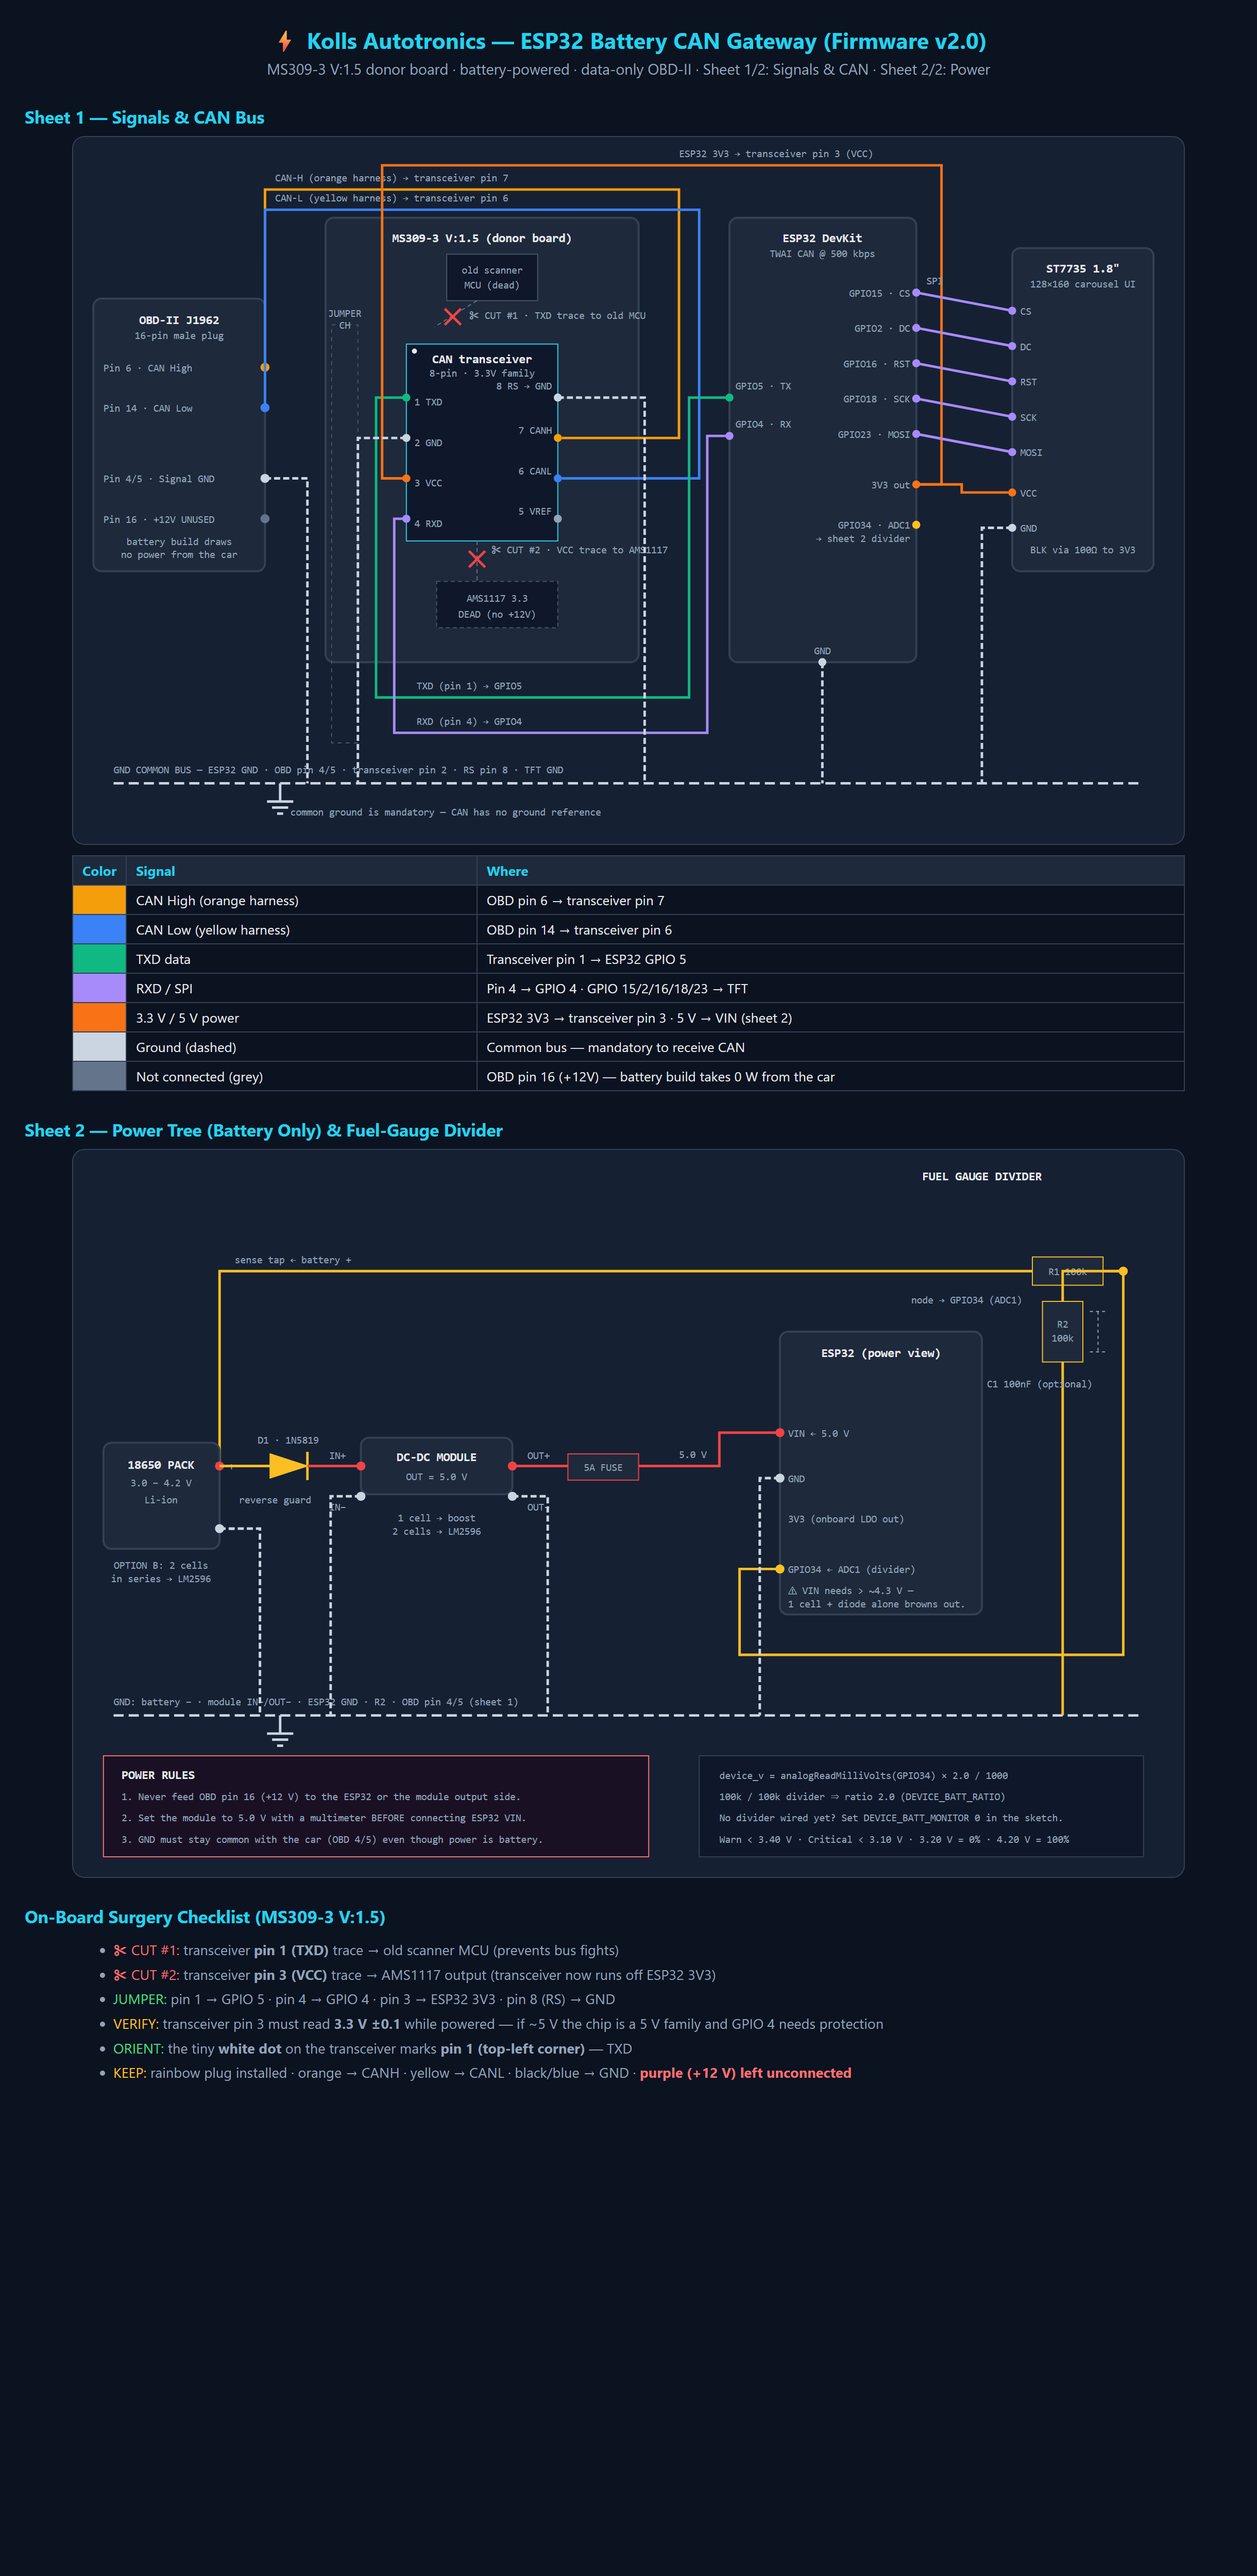
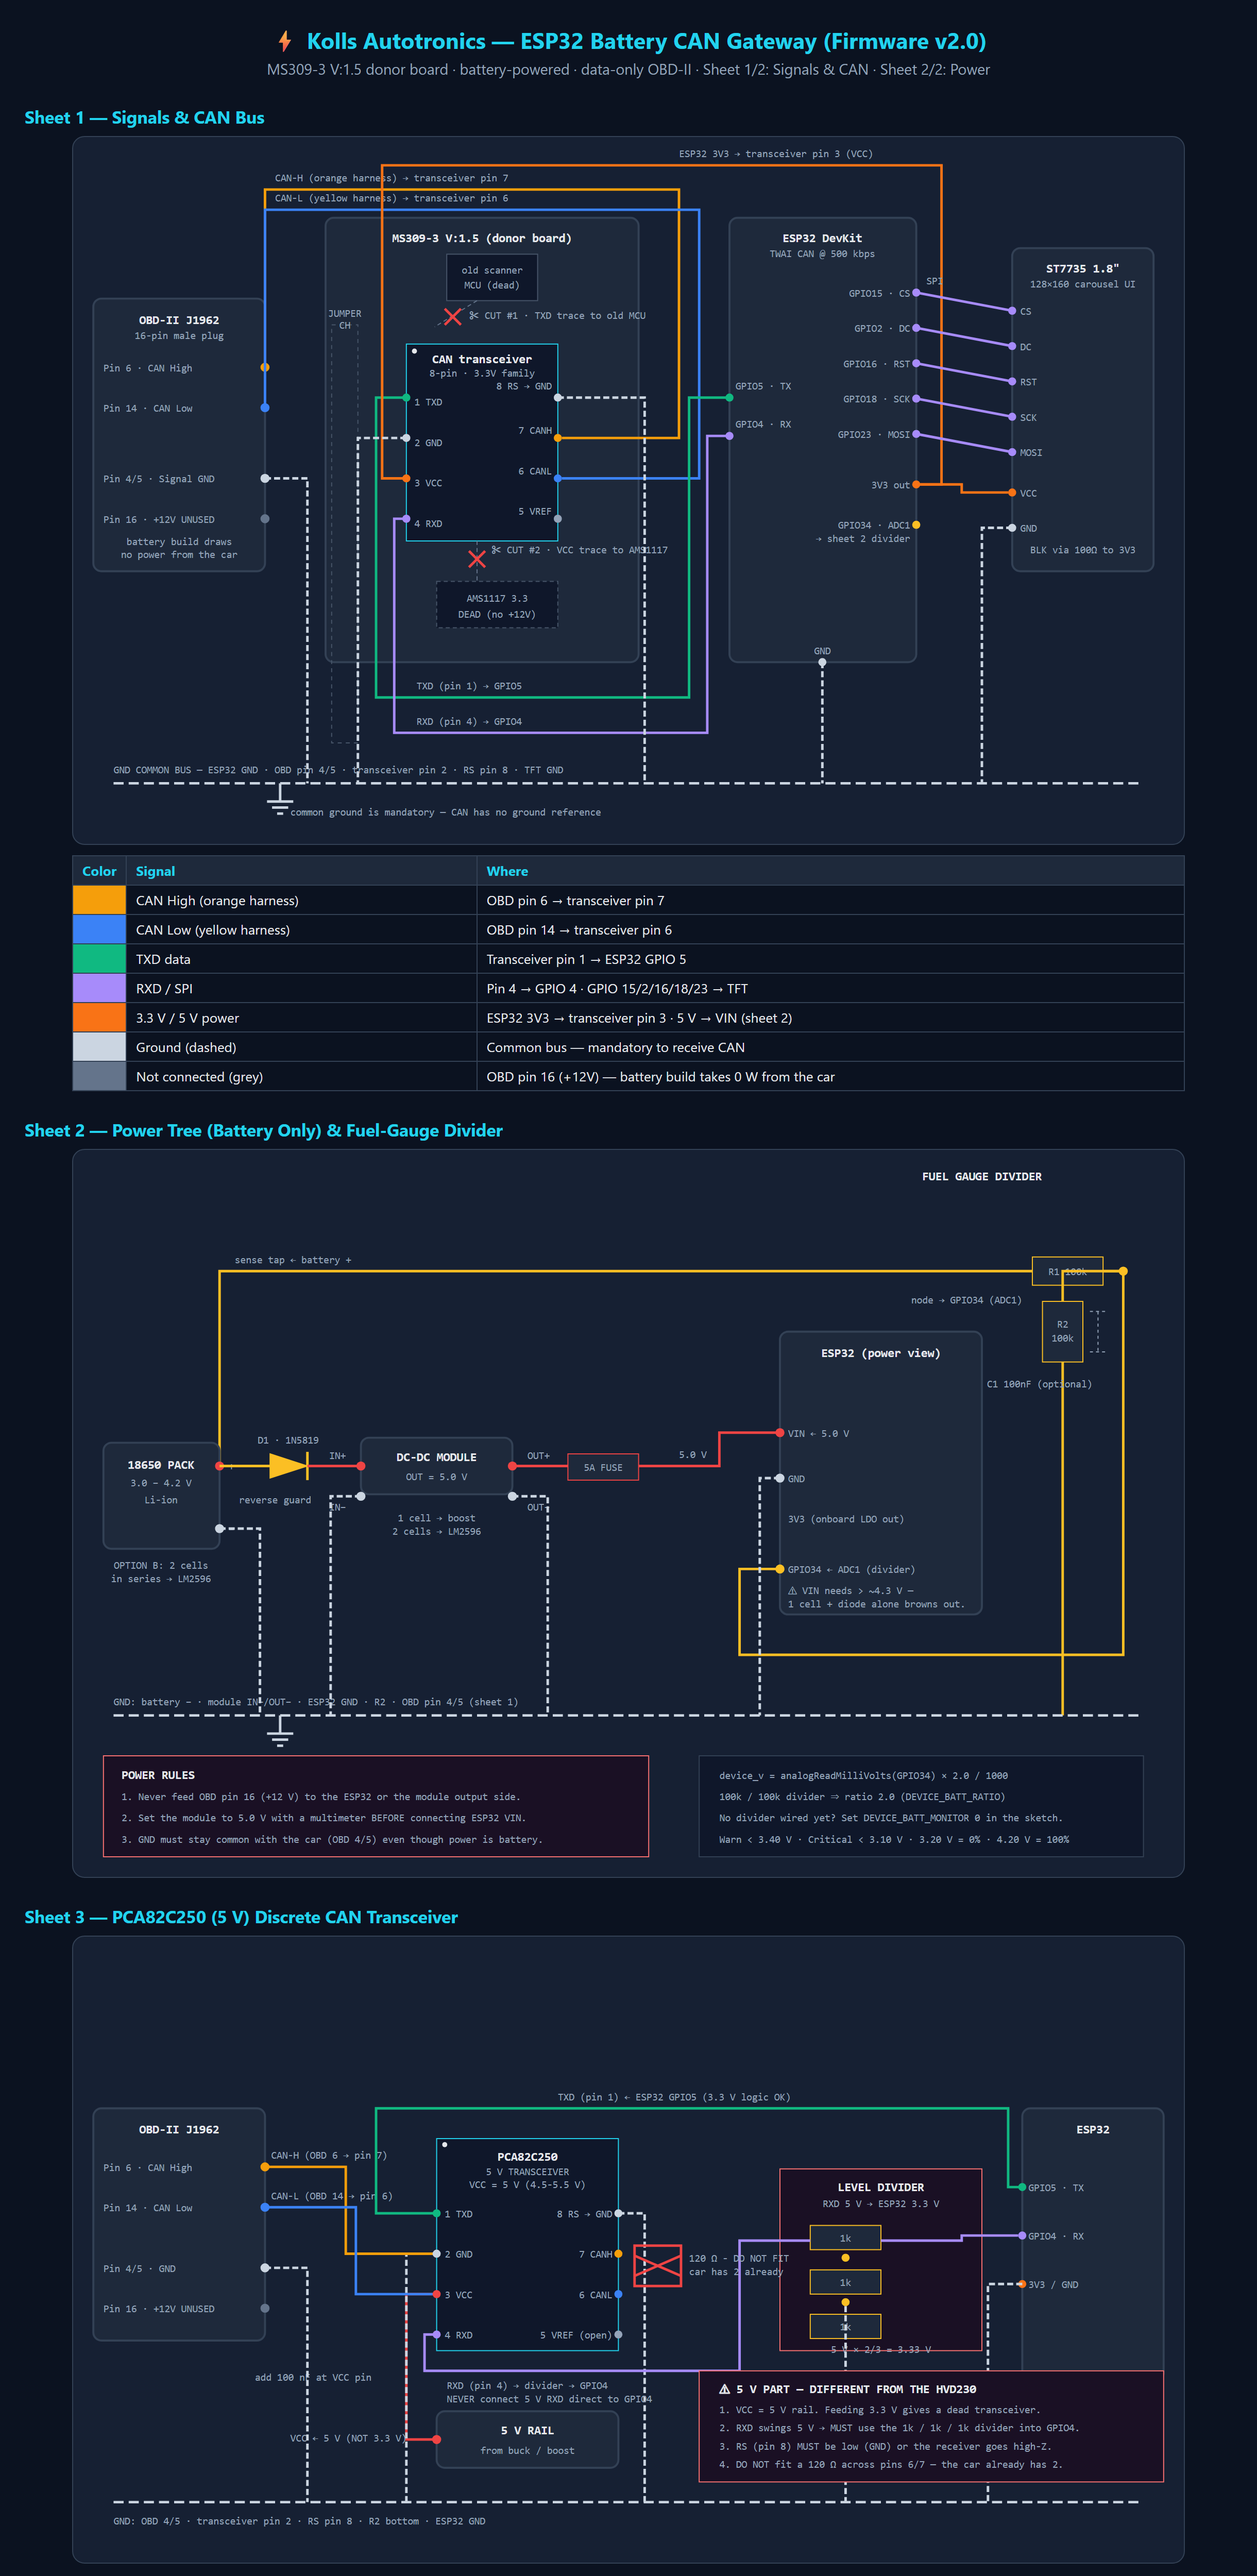
docs: add PCA82C250 (5V) schematic sheet + fix render pipeline
- new Sheet 3: PCA82C250 discrete transceiver (5V part) with 1k/1k/1k RXD level
  divider into GPIO4, RS->GND, VCC from the 5V rail, and a DO-NOT-FIT marker on
  the 120R terminator (the vehicle already provides two)
- exporter: tag-balance guard (an unclosed <text> silently truncated renders),
  removed duplicate xmlns (fatal XML error in standalone .svg)
- layout linter extended to text/dot and text/wire collisions

Changed region(s): [[0.0623, 0.7176, 0.9344, 0.9672], [0.5607, 0.78, 0.6541, 0.8112]]

diff --git a/docs/wiring-schematic-battery.html b/docs/wiring-schematic-battery.html
@@ -335,6 +335,120 @@
   <text class="pin" x="640" y="686" fill="#94a3b8">Warn &lt; 3.40 V · Critical &lt; 3.10 V · 3.20 V = 0% · 4.20 V = 100%</text>
 </svg>
 
+<h2>Sheet 3 — PCA82C250 (5 V) Discrete CAN Transceiver</h2>
+<svg viewBox="0 0 1100 620" xmlns="http://www.w3.org/2000/svg">
+
+  <!-- OBD -->
+  <rect class="comp" x="20" y="170" width="170" height="230" stroke="#f59e0b"/>
+  <text class="lbl" x="105" y="195" text-anchor="middle" fill="#f59e0b">OBD-II J1962</text>
+  <text class="pin" x="30" y="232" fill="#f59e0b">Pin 6  · CAN High</text>
+  <text class="pin" x="30" y="272" fill="#3b82f6">Pin 14 · CAN Low</text>
+  <text class="pin" x="30" y="332" fill="#cbd5e1">Pin 4/5 · GND</text>
+  <text class="pin" x="30" y="372" fill="#64748b">Pin 16 · +12V UNUSED</text>
+  <circle cx="190" cy="228" r="4.5" fill="#f59e0b"/>
+  <circle cx="190" cy="268" r="4.5" fill="#3b82f6"/>
+  <circle cx="190" cy="328" r="4.5" fill="#cbd5e1"/>
+  <circle cx="190" cy="368" r="4.5" fill="#64748b"/>
+
+  <!-- PCA82C250 -->
+  <rect x="360" y="200" width="180" height="210" fill="#0f172a" stroke="#22d3ee"/>
+  <text class="lbl" x="450" y="222" text-anchor="middle" fill="#22d3ee">PCA82C250</text>
+  <text class="note" x="450" y="236" text-anchor="middle" fill="#f87171">5 V TRANSCEIVER</text>
+  <text class="note" x="450" y="249" text-anchor="middle" fill="#64748b">VCC = 5 V (4.5-5.5 V)</text>
+  <circle cx="368" cy="206" r="2.5" fill="#e5e7eb"/>
+  <text class="pin" x="368" y="278">1 TXD</text>
+  <text class="pin" x="368" y="318">2 GND</text>
+  <text class="pin" x="368" y="358">3 VCC</text>
+  <text class="pin" x="368" y="398">4 RXD</text>
+  <circle cx="360" cy="274" r="4" fill="#10b981"/>
+  <circle cx="360" cy="314" r="4" fill="#cbd5e1"/>
+  <circle cx="360" cy="354" r="4" fill="#ef4444"/>
+  <circle cx="360" cy="394" r="4" fill="#a78bfa"/>
+  <text class="pin" x="534" y="278" text-anchor="end">8 RS → GND</text>
+  <text class="pin" x="534" y="318" text-anchor="end">7 CANH</text>
+  <text class="pin" x="534" y="358" text-anchor="end">6 CANL</text>
+  <text class="pin" x="534" y="398" text-anchor="end">5 VREF (open)</text>
+  <circle cx="540" cy="274" r="4" fill="#cbd5e1"/>
+  <circle cx="540" cy="314" r="4" fill="#f59e0b"/>
+  <circle cx="540" cy="354" r="4" fill="#3b82f6"/>
+  <circle cx="540" cy="394" r="4" fill="#94a3b8"/>
+
+  <!-- level divider block : 3 x 1k (1k from RXD, 2k to GND) = 5V x 2/3 = 3.33V -->
+  <rect x="700" y="230" width="200" height="180" fill="#1a1024" stroke="#f87171"/>
+  <text class="lbl" x="800" y="252" text-anchor="middle" fill="#f87171">LEVEL DIVIDER</text>
+  <text class="note" x="800" y="268" text-anchor="middle" fill="#94a3b8">RXD 5 V → ESP32 3.3 V</text>
+  <rect x="730" y="286" width="70" height="24" fill="#1e293b" stroke="#fbbf24"/>
+  <text class="pin" x="765" y="302" text-anchor="middle" fill="#fbbf24">1k</text>
+  <rect x="730" y="330" width="70" height="24" fill="#1e293b" stroke="#fbbf24"/>
+  <text class="pin" x="765" y="346" text-anchor="middle" fill="#fbbf24">1k</text>
+  <rect x="730" y="374" width="70" height="24" fill="#1e293b" stroke="#fbbf24"/>
+  <text class="pin" x="765" y="390" text-anchor="middle" fill="#fbbf24">1k</text>
+  <text class="note" x="800" y="412" text-anchor="middle" fill="#94a3b8">5 V × 2/3 = 3.33 V</text>
+  <circle cx="765" cy="318" r="4" fill="#fbbf24"/>
+  <circle cx="765" cy="362" r="4" fill="#fbbf24"/>
+
+  <!-- ESP32 -->
+  <rect class="comp" x="940" y="170" width="140" height="270" stroke="#10b981"/>
+  <text class="lbl" x="1010" y="195" text-anchor="middle" fill="#10b981">ESP32</text>
+  <text class="pin" x="946" y="252">GPIO5 · TX</text>
+  <text class="pin" x="946" y="300">GPIO4 · RX</text>
+  <text class="pin" x="946" y="348">3V3 / GND</text>
+  <circle cx="940" cy="248" r="4" fill="#10b981"/>
+  <circle cx="940" cy="296" r="4" fill="#a78bfa"/>
+  <circle cx="940" cy="344" r="4" fill="#f97316"/>
+
+  <!-- 5V rail -->
+  <rect class="comp" x="360" y="470" width="180" height="56" stroke="#ef4444"/>
+  <text class="lbl" x="450" y="493" text-anchor="middle" fill="#ef4444">5 V RAIL</text>
+  <text class="pin" x="450" y="512" text-anchor="middle">from buck / boost</text>
+  <circle cx="360" cy="498" r="4.5" fill="#ef4444"/>
+  <path class="wire" d="M360 498 H330 V354 H360" stroke="#ef4444"/>
+  <text class="note" x="215" y="500" fill="#ef4444">VCC ← 5 V (NOT 3.3 V)</text>
+  <text class="note" x="180" y="440" fill="#94a3b8">add 100 nF at VCC pin</text>
+
+  <!-- GND bus -->
+  <line class="wire" x1="40" y1="560" x2="1060" y2="560" stroke="#cbd5e1" stroke-width="3" stroke-dasharray="10,5"/>
+  <text class="pin" x="40" y="582" fill="#94a3b8">GND: OBD 4/5 · transceiver pin 2 · RS pin 8 · R2 bottom · ESP32 GND</text>
+  <path class="wire" d="M190 328 H232 V560" stroke="#cbd5e1" stroke-dasharray="6,3"/>
+  <path class="wire" d="M360 314 H330 V560" stroke="#cbd5e1" stroke-dasharray="6,3"/>
+  <path class="wire" d="M540 274 H566 V560" stroke="#cbd5e1" stroke-dasharray="6,3"/>
+  <path class="wire" d="M765 366 V560" stroke="#cbd5e1" stroke-dasharray="6,3"/>
+  <path class="wire" d="M940 344 H906 V560" stroke="#cbd5e1" stroke-dasharray="6,3"/>
+
+  <!-- CAN -->
+  <path class="wire" d="M190 228 H270 V314 H356" stroke="#f59e0b"/>
+  <text class="note" x="196" y="220" fill="#f59e0b">CAN-H (OBD 6 → pin 7)</text>
+  <path class="wire" d="M190 268 H280 V354 H356" stroke="#3b82f6"/>
+  <text class="note" x="196" y="260" fill="#3b82f6">CAN-L (OBD 14 → pin 6)</text>
+
+  <!-- TXD from ESP -->
+  <path class="wire" d="M360 274 H300 V170 H926 V248 H940" stroke="#10b981"/>
+  <text class="note" x="480" y="162" fill="#10b981">TXD (pin 1) ← ESP32 GPIO5 (3.3 V logic OK)</text>
+
+  <!-- RXD divider : exits LEFT from pin 4, routed under the chip -->
+  <path class="wire" d="M360 394 H348 V430 H660 V301 H730" stroke="#a78bfa"/>
+  <path class="wire" d="M800 301 H880 V296 H936" stroke="#a78bfa"/>
+  <text class="note" x="370" y="448" fill="#a78bfa">RXD (pin 4) → divider → GPIO4</text>
+  <text class="note" x="370" y="461" fill="#f87171">NEVER connect 5 V RXD direct to GPIO4</text>
+
+  <!-- termination : DO NOT FIT -->
+  <g stroke="#ef4444" stroke-width="2.5" fill="none">
+    <rect x="556" y="306" width="46" height="40"/>
+    <line x1="556" y1="316" x2="602" y2="336"/>
+    <line x1="556" y1="336" x2="602" y2="316"/>
+  </g>
+  <text class="note" x="610" y="322" fill="#ef4444">120 Ω - DO NOT FIT</text>
+  <text class="note" x="610" y="335" fill="#f87171">car has 2 already</text>
+
+  <!-- warning box -->
+  <rect x="620" y="430" width="460" height="110" fill="#1a1024" stroke="#f87171"/>
+  <text class="lbl" x="640" y="452" fill="#f87171">⚠ 5 V PART — DIFFERENT FROM THE HVD230</text>
+  <text class="pin" x="640" y="472" fill="#e5e7eb">1. VCC = 5 V rail. Feeding 3.3 V gives a dead transceiver.</text>
+  <text class="pin" x="640" y="490" fill="#e5e7eb">2. RXD swings 5 V → MUST use the 1k / 1k / 1k divider into GPIO4.</text>
+  <text class="pin" x="640" y="508" fill="#e5e7eb">3. RS (pin 8) MUST be low (GND) or the receiver goes high-Z.</text>
+  <text class="pin" x="640" y="526" fill="#e5e7eb">4. DO NOT fit a 120 Ω across pins 6/7 — the car already has 2.</text>
+</svg>
+
 <h2>On-Board Surgery Checklist (MS309-3 V:1.5)</h2>
 <ul class="check">
   <li><span class="crit">✂ CUT #1:</span> transceiver <strong>pin 1 (TXD)</strong> trace → old scanner MCU (prevents bus fights)</li>

diff --git a/tools/export-schematic.js b/tools/export-schematic.js
@@ -18,17 +18,28 @@ const svgs = [...html.matchAll(/<svg viewBox="([^"]+)"[\s\S]*?<\/svg>/g)].map(m 
   viewBox: m[1],
   markup: m[0]
 }));
-if (svgs.length !== 2) {
-  console.error('Expected 2 SVG sheets, found ' + svgs.length);
+if (svgs.length < 2) {
+  console.error('Expected at least 2 SVG sheets, found ' + svgs.length);
   process.exit(1);
 }
-const names = ['schematic-signals-can', 'schematic-power-divider'];
+const names = ['schematic-signals-can', 'schematic-power-divider', 'schematic-pca82c250'];
 
 /* ------------------------------------------------------------------ build SVG */
 svgs.forEach((s, i) => {
   const [, , vw, vh] = s.viewBox.split(/\s+/).map(Number);
+  // Tag-balance guard: an unclosed element silently truncates the render.
+  ['g', 'svg', 'text', 'style'].forEach(t => {
+    const o = (s.markup.match(new RegExp('<' + t + '[ >]', 'g')) || []).length;
+    const c = (s.markup.match(new RegExp('</' + t + '>', 'g')) || []).length;
+    if (o !== c) {
+      console.error(`ERROR: sheet ${i + 1} has ${o} <${t}> but ${c} </${t}> - fix the markup`);
+      process.exit(1);
+    }
+  });
   const standalone = s.markup
-    .replace(/<svg viewBox="([^"]+)"/, `<svg xmlns="http://www.w3.org/2000/svg" viewBox="$1" width="${vw}" height="${vh}"`)
+    // NB: do NOT add an xmlns attribute - the source already has one and a
+    // duplicate attribute is a fatal XML error in a standalone .svg file.
+    .replace(/<svg viewBox="([^"]+)"/, `<svg viewBox="$1" width="${vw}" height="${vh}"`)
     .replace(/(<svg[^>]*>)/, `$1\n<style>${css}\ntext{font-family:ui-monospace,Consolas,monospace}</style>`);
   fs.writeFileSync(path.join(OUT, `${names[i]}.svg`), standalone, 'utf8');
   console.log(`sheet ${i + 1}: ${vw}x${vh} -> images/${names[i]}.svg`);
@@ -148,6 +159,8 @@ function render(file, outPng, width, height, scale) {
 
 svgs.forEach((s, i) => {
   const [, , vw, vh] = s.viewBox.split(/\s+/).map(Number);
+  // Render via a minimal HTML wrapper (Chrome renders standalone .svg files
+  // inconsistently; the wrapper is deterministic).
   const wrap = path.join(OUT, `_wrap_${names[i]}.html`);
   fs.writeFileSync(wrap, `<!DOCTYPE html><html><head><meta charset="utf-8">
 <style>html,body{margin:0;padding:0;background:#162033}svg{display:block}</style></head>
